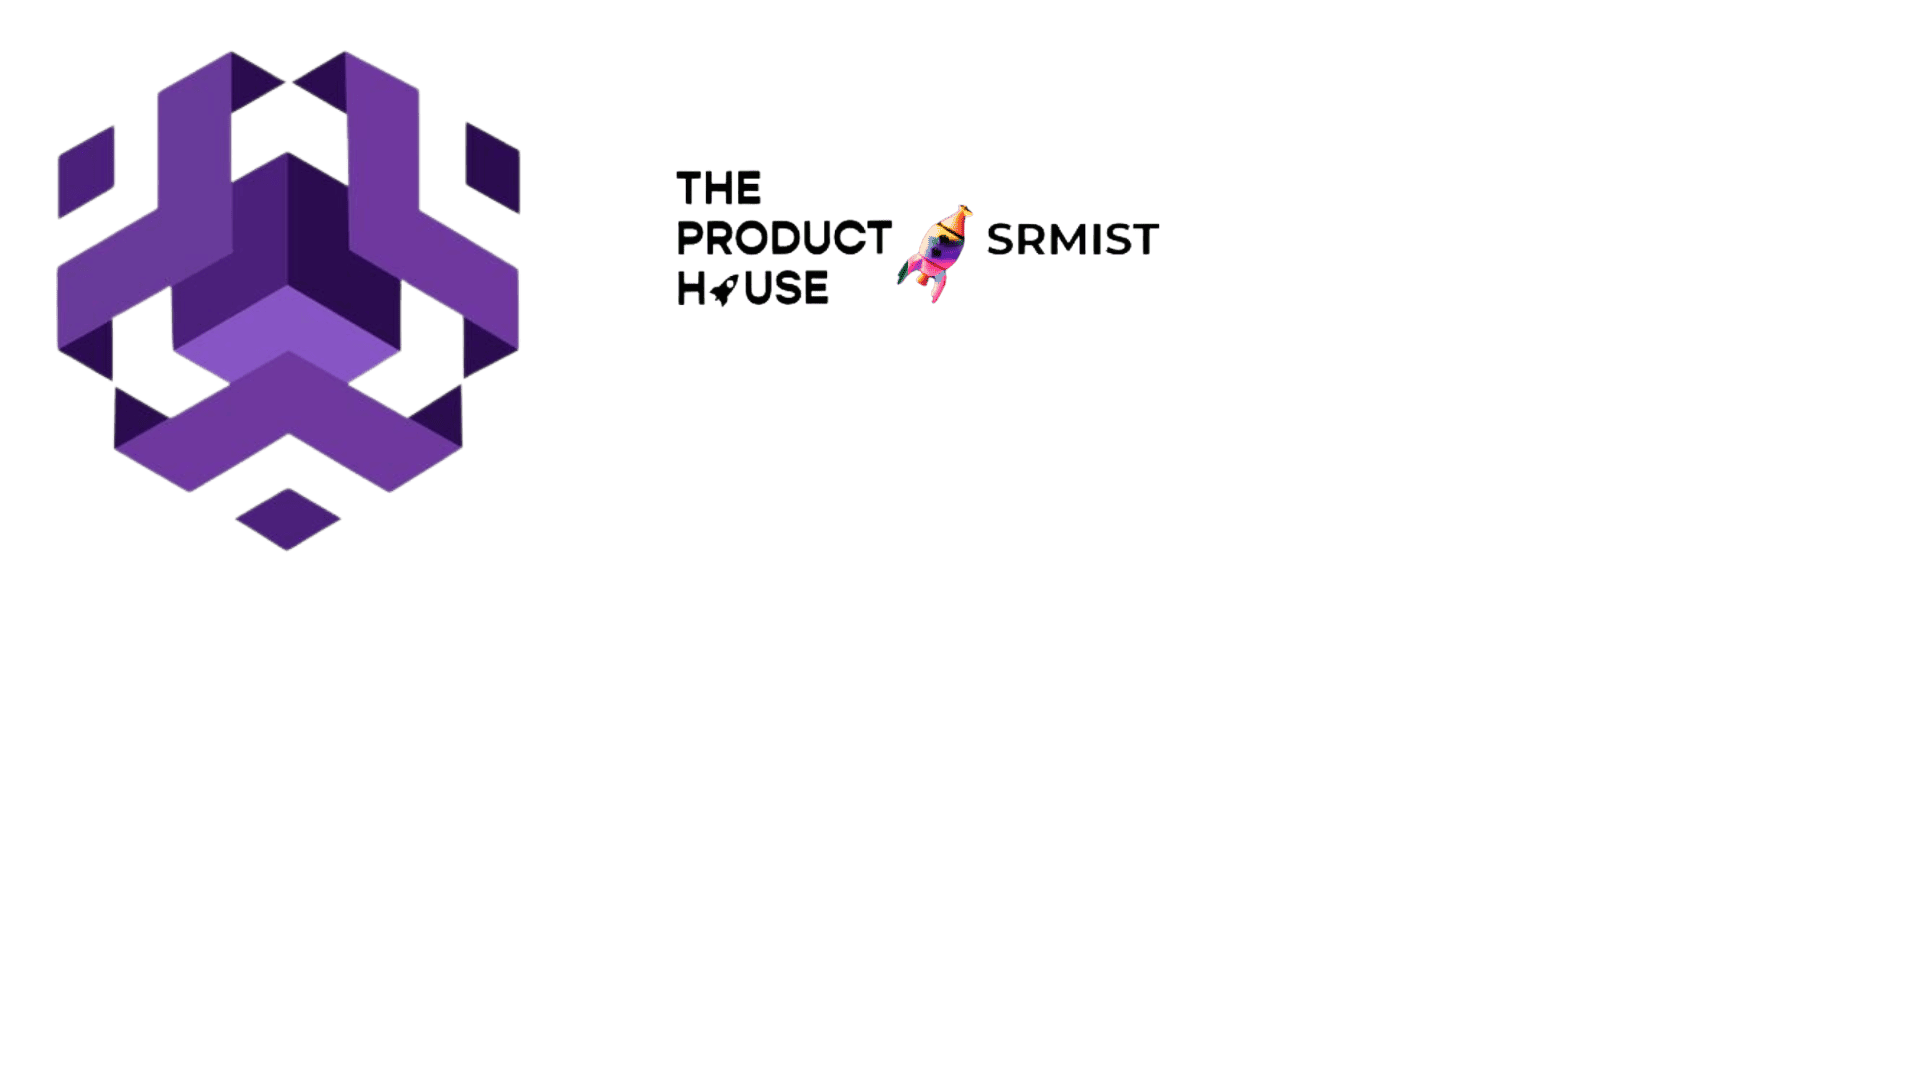
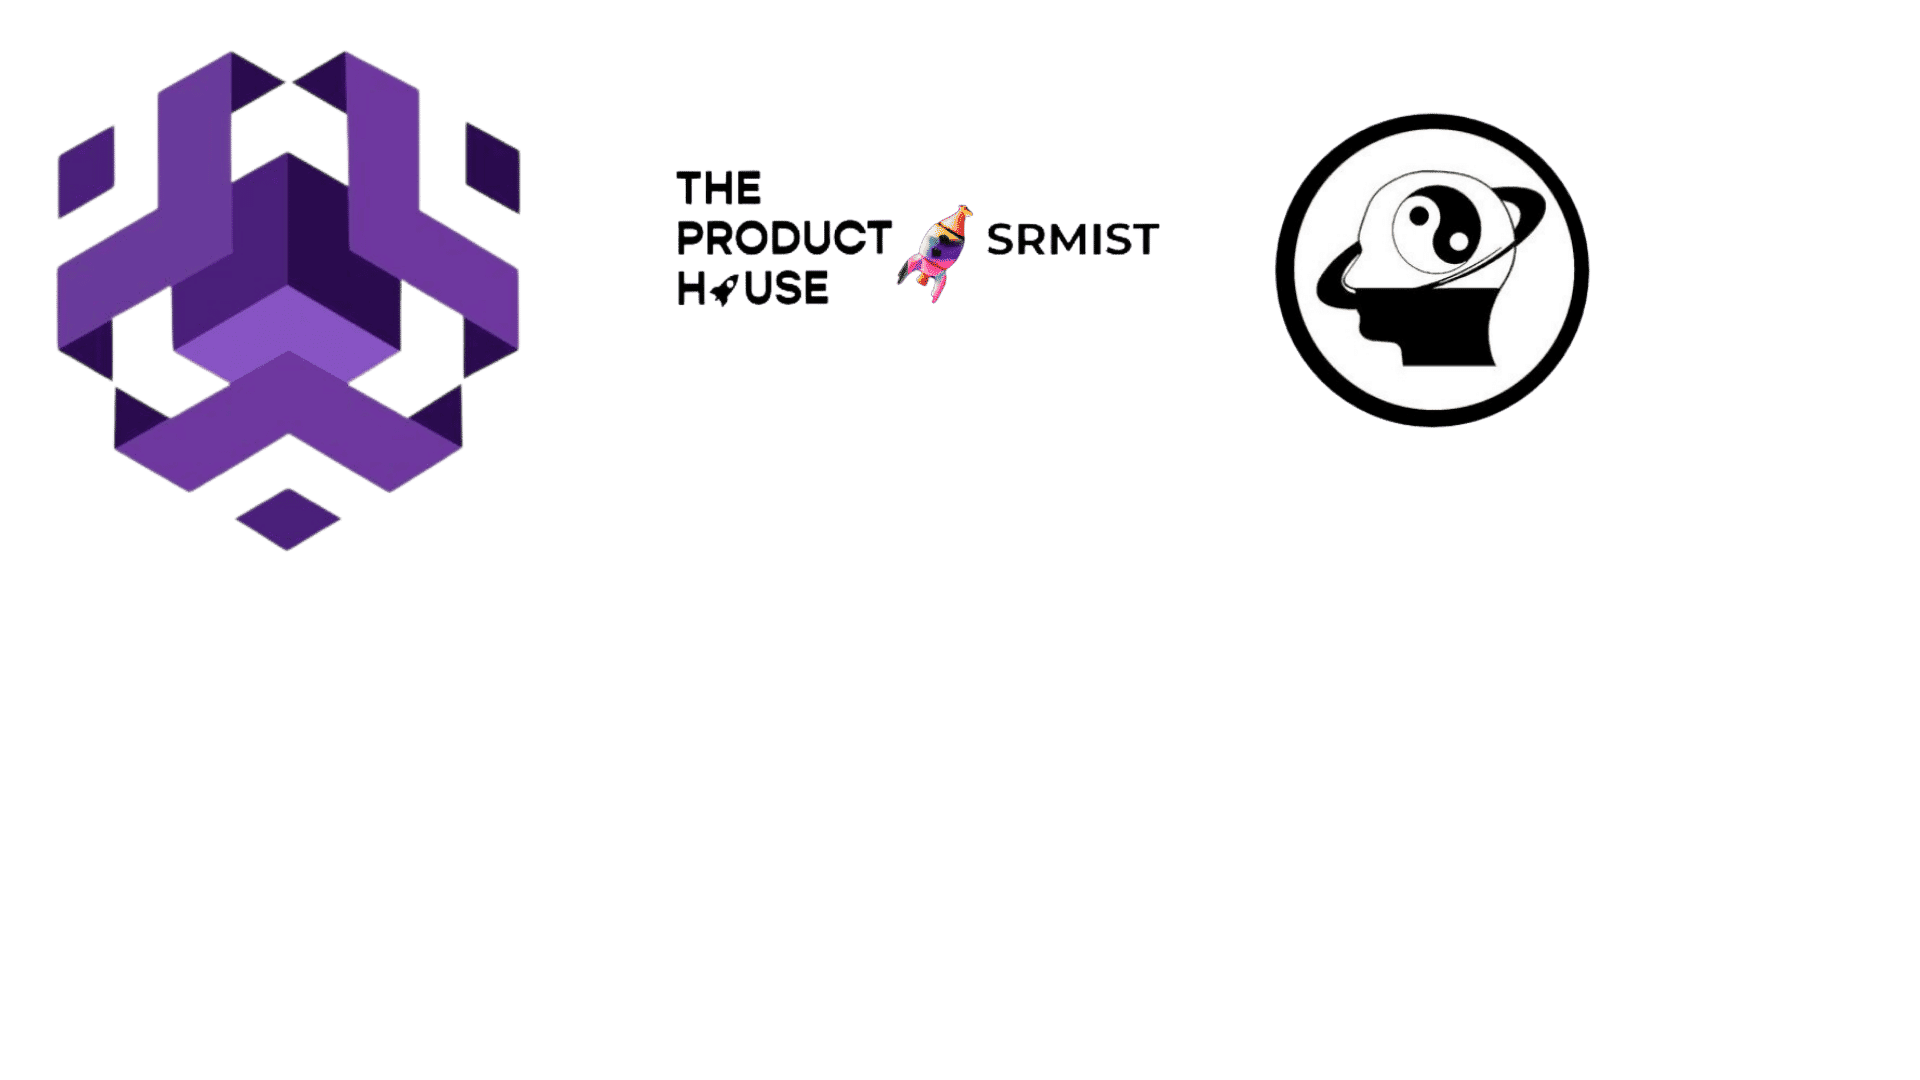
a

Changed region(s): [[0.6562, 0.0917, 0.8438, 0.3972], [0.4688, 0.1833, 0.5, 0.275]]

diff --git a/src/pages/landing/Explore.js b/src/pages/landing/Explore.js
@@ -1,4 +1,4 @@
-import React from "react";
+import React, { useState } from "react";
 import GetExporeLogic from "../../Logic/Explore/getEvents";
 import EventCarousel from "../../components/EventCarousel";
 import Loading from "../../components/Loading";
@@ -16,49 +16,71 @@ function Explore() {
     category,
   } = GetExporeLogic();
 
+  const [searchInput, setSearchInput] = useState("");
+  const handleChange = (e) => {
+    e.preventDefault();
+    setSearchInput(e.target.value);
+  };
+
+  const filteredEvents = searchInput.length > 0
+    ? events.filter(event => event.title.toLowerCase().includes(searchInput.toLowerCase()))
+    : events;
+
   if (loading) return <Loading />;
 
   return (
     <section className="container py-4 md:py-16">
-      <h1 className="pb-6 text-2xl md:text-4xl font-bold text-center md:text-left">Explore the events happening at SRM KTR Campus</h1>
-      <h1 className="pb-5 text-xl font-bold">Categories</h1>
+      <h1 className="pb-6 text-2xl md:text-4xl font-bold text-center md:text-left">
+        Explore the events happening at SRM KTR Campus
+      </h1>
+      <h1 className="pb-5 text-2xl font-bold">Categories</h1>
       <div className="flex gap-5 mb-8 items-center flex-wrap text-neutral-500 font-bold">
-      {[{ label: "All" }, ...categories]?.map((item, index) => (
+        {[{ label: "All" }, ...categories]?.map((item, index) => (
           <button
-          onClick={(e) => {
-            e.preventDefault();
-            if (item?.label === "All") setSearchParams((prev) => ({}));
-            else
-              setSearchParams((prev) => ({ ...prev, category: item?.label }));
-          }}
-          className={`text-sm ${
-            (category === item.label || item.label === "All") &&
-            "text-primary"
-          }`}
-        >
-          {item?.label}
-        </button>
+          style={{fontSize:"17px"}}
+            onClick={(e) => {
+              e.preventDefault();
+              if (item?.label === "All") setSearchParams((prev) => ({}));
+              else setSearchParams((prev) => ({ ...prev, category: item?.label }));
+            }}
+            className={`text-sm ${
+              (category === item.label || item.label === "All") &&
+              "text-primary"
+              }`}
+          >
+            {item?.label}
+          </button>
         ))}
       </div>
+      <input
+  type="text"
+  placeholder="🔎 Search event here"
+  onChange={handleChange}
+  value={searchInput}
+  style={{
+    borderRadius: "20px",
+    padding: "10px",
+    border: "2px solid #ccc",
+    width: "100%",
+    maxWidth: "400px", // Adjust the width as needed
+    marginBottom: "20px", // Adjust spacing as needed
+  }}
+/>
+
       {error ? (
         <div>{error}</div>
       ) : (
         <>
-          {events?.length > 0 ? (
-            <EventCarousel events={events} title={"All"} />
+          {filteredEvents?.length > 0 ? (
+            <EventCarousel events={filteredEvents} title={"All"} />
           ) : (
             <div className="text-white" style={{ fontSize: "40px", fontWeight: "bold", textAlign: "center" }}>
-  <span className="bg-black px-4 py-2 flex flex-col items-center justify-center" style={{borderRadius:"25px"}}>
-    <span>⚠ NO EVENTS POSTED</span>
-    <span className="mt-1 text-base">Wait for the organisers to post</span>
-  </span>
-</div>
+              <span className="bg-black px-4 py-2 flex flex-col items-center justify-center" style={{ borderRadius: "25px" }}>
+                <span>⚠ NO EVENTS FOUND</span>
+                <span className="mt-1 text-base">Try a different search term</span>
+              </span>
+            </div>
           )}
-          {/* {events?.length > 0 ? (
-            <EventCarousel events={events} title={"Latest Added"} />
-          ) : (
-            <div>No events posted</div>
-          )} */}
           {offlineEvent?.length > 0 && (
             <EventCarousel events={offlineEvent} title={"Offline"} />
           )}

diff --git a/src/pages/landing/Landing.js b/src/pages/landing/Landing.js
@@ -217,6 +217,7 @@ function Landing() {
           <ol className="text-sm leading-[1.4rem] md:max-w-[90%] py-4 text-neutral-500 text-justify" style={{ fontWeight: "bold" }}>
   <li className="mb-2">1. Data Science Community SRM</li>
   <li className="mb-2">2. The Product House x SRMIST</li>
+  <li className="mb-2">3. Astrophilia</li>
   </ol>
         </div>
       </section>

diff --git a/src/Logic/EventsLogic/categories.js b/src/Logic/EventsLogic/categories.js
@@ -6,7 +6,7 @@ export const categories = [
         label: 'Conference',
     },
     {
-        label: 'Clubs',
+        label: 'Talks',
     },
     {
         label: 'Recruitments',
